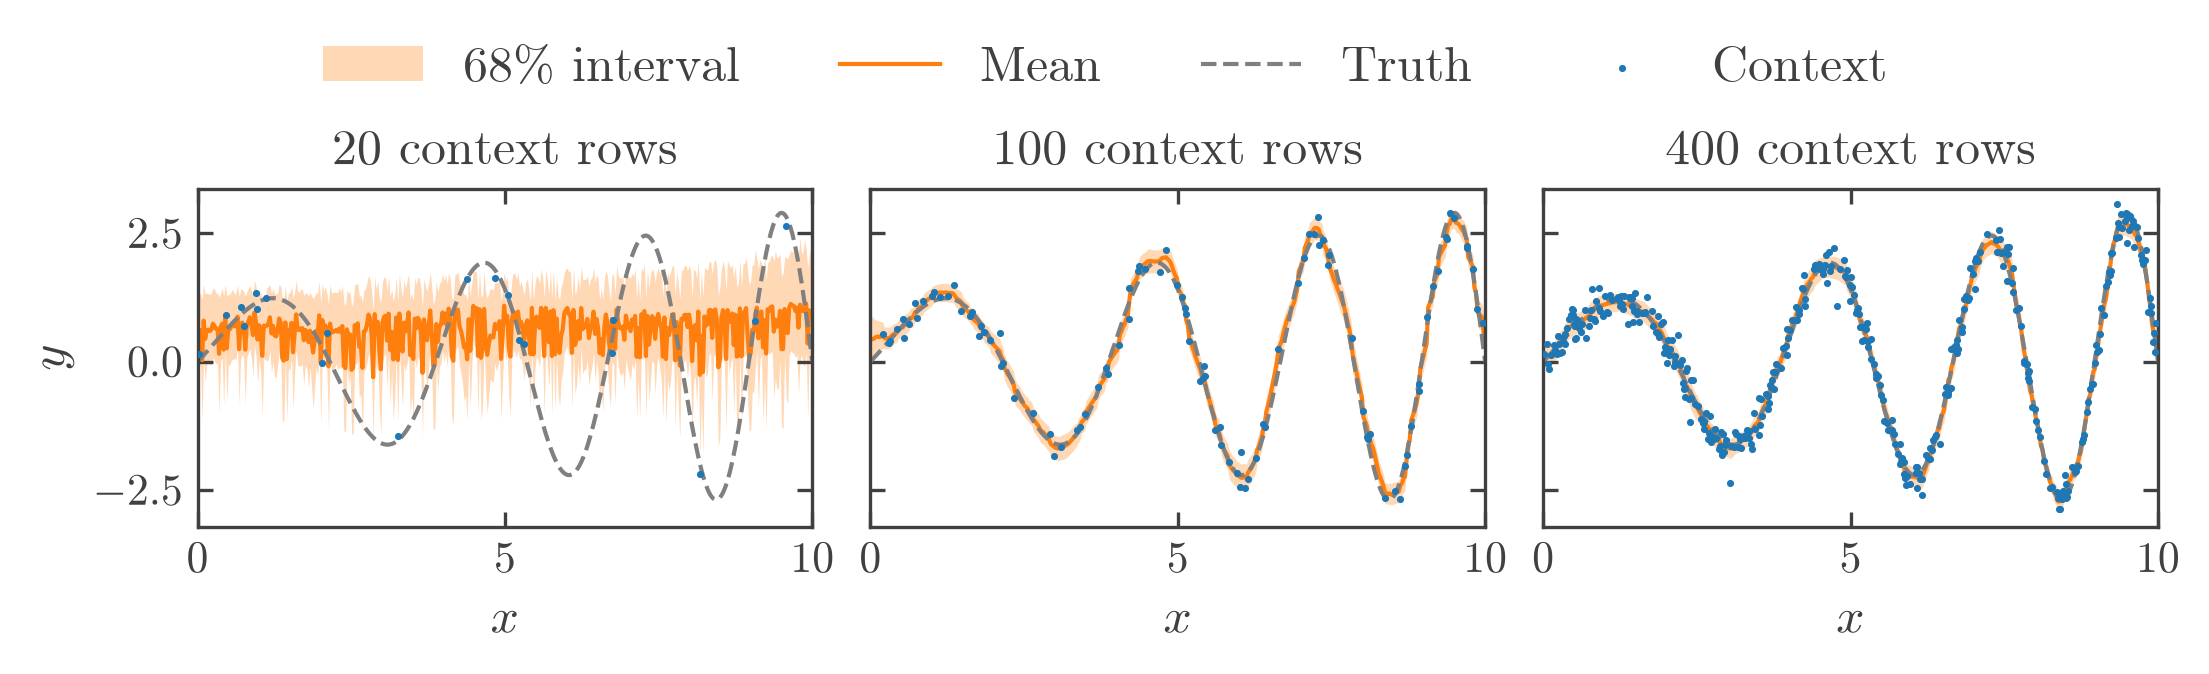
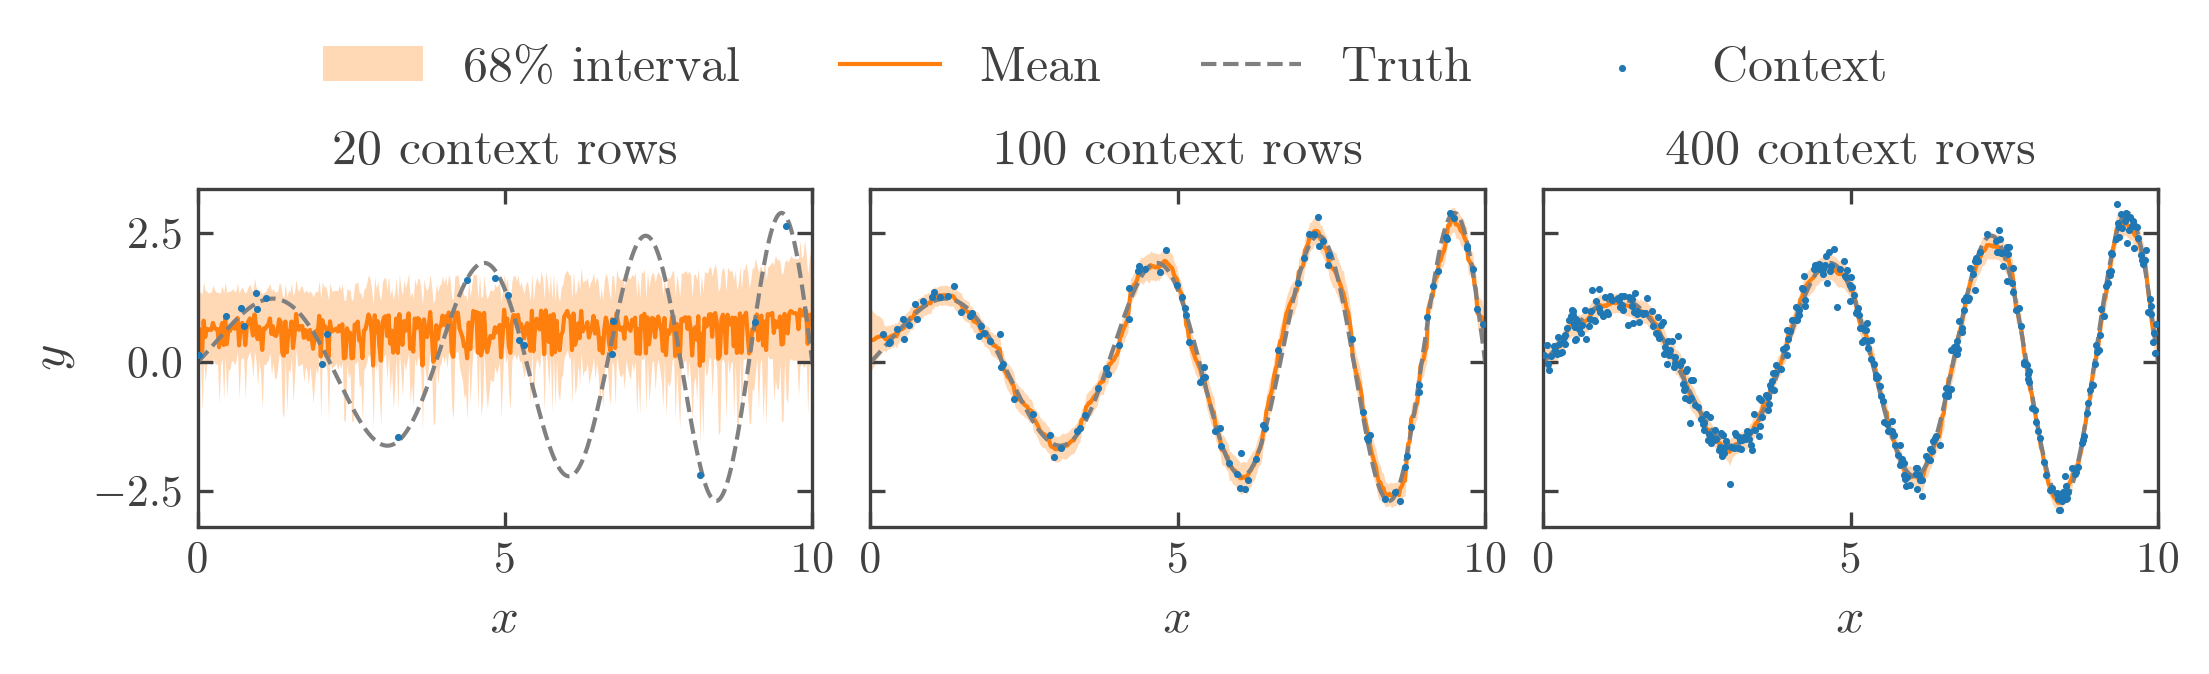
Run the docs demo on TabPFN-3.5-fast, which needs no GPU
On the slowed chirp the fast checkpoint misses the three gaps by 0.11,
0.10 and 0.28 rms (TabPFN-3.5: 0.04, 0.06, 0.15), with the noise-free
curve inside its 68% interval at 93% of the test points, and it fits and
predicts in about 7 s on a CPU against 19 s, so a reader can run the
landing page's code on a laptop.

diff --git a/docs/figures/make_figures.py b/docs/figures/make_figures.py
@@ -11,9 +11,9 @@
 # # The documentation's figures
 #
 # Every figure in the documentation that shows a model's output is made here,
-# so each one can be remade from the code that the page shows. The models run
-# at LAZY's defaults (TabPFN-3.5), which wants a GPU. Running the script
-# rewrites every PNG in `docs/figures/figs/`:
+# so each one can be remade from the code that the page shows. The model is
+# TabPFN-3.5-fast at LAZY's defaults, which runs on a CPU in seconds at these
+# sizes. Running the script rewrites every PNG in `docs/figures/figs/`:
 #
 #     python docs/figures/make_figures.py
 
@@ -77,14 +77,14 @@ plt.rcParams.update(RC_PARAMS)
 # ## Filling in a curve
 #
 # The landing page's demo, as it appears there: a noisy chirp with three
-# chunks cut out, and TabPFN-3.5's mean and 68% interval in the gaps.
+# chunks cut out, and TabPFN-3.5-fast's mean and 68% interval in the gaps.
 
 # %%
 X_train, X_test, y_train, y_test = datasets.make_chirp(random_state=0)
 
 model = lazy.LazyModel(
     "tabpfn",
-    version="v3.5",
+    version="v3.5-fast",
     n_estimators=8,
     transforms="auto",
     feature_shuffle=True,
@@ -326,7 +326,7 @@ fig, axes = plt.subplots(
 )
 for ax, size in zip(axes, sizes, strict=True):
     rows = np.sort(rng.choice(len(x_full), size, replace=False))
-    model = lazy.LazyModel("tabpfn")
+    model = lazy.LazyModel("tabpfn", version="v3.5-fast")
     model.fit(x_full[rows], y_full[rows])
     low, high = model.predict_interval(x_grid, coverage=0.68).T
     ax.fill_between(

diff --git a/docs/index.md b/docs/index.md
@@ -35,11 +35,13 @@ As a quick demonstration, we fill in the missing parts of a noisy curve.
 {func}`~lazy.datasets.make_chirp` generates a sinusoid whose amplitude and
 frequency both grow with $x$, adds Gaussian noise to it and deletes three
 chunks of the data, which become the test set. We then give the remaining
-points to TabPFN-3.5 as its training data and predict the mean and the central
-68% interval of $y$ in each gap. For clarity, we write out every
-hyperparameter at its default value, so `lazy.LazyModel()` gives the same
-model. TabPFN-3.5 is best run on a GPU, though a context this small also runs
-on a CPU (see {doc}`installation`).
+points to TabPFN-3.5-fast as its training data and predict the mean and the
+central 68% interval of $y$ in each gap. TabPFN-3.5-fast is the smaller and
+faster version of TabPFN-3.5, LAZY's default model, and at this size it runs
+on a CPU in seconds (about 7 s on the 20-core Arm CPU of an NVIDIA GB10), so
+the demo needs no GPU. For clarity, we write out every hyperparameter at its
+default value, so `lazy.LazyModel("tabpfn", version="v3.5-fast")` gives the
+same model.
 
 ```python
 import lazy
@@ -49,7 +51,7 @@ X_train, X_test, y_train, y_test = datasets.make_chirp(random_state=0)
 
 model = lazy.LazyModel(
     "tabpfn",
-    version="v3.5",
+    version="v3.5-fast",
     n_estimators=8,
     transforms="auto",
     feature_shuffle=True,
@@ -70,16 +72,17 @@ y_low, y_high = model.predict_interval(X_test, coverage=0.68).T
 ```
 
 ```{figure} figures/figs/chirp_demo.png
-:alt: A noisy chirp with three gaps, filled by TabPFN-3.5's mean and 68% interval.
+:alt: A noisy chirp with three gaps, filled by TabPFN-3.5-fast's mean and 68% interval.
 :width: 100%
 
-The noisy chirp generated by `make_chirp` and TabPFN-3.5's predictions in the
-three gaps. The blue line shows the training data, the gray dashed line the
-true curve in the gaps, the orange points the mean of each predicted
+The noisy chirp generated by `make_chirp` and TabPFN-3.5-fast's predictions in
+the three gaps. The blue line shows the training data, the gray dashed line
+the true curve in the gaps, the orange points the mean of each predicted
 distribution and the orange band its central 68% interval. We observe that the
-mean follows the true curve closely in all three gaps, and that the true curve
-lies within the 68% interval everywhere in them (the interval describes the
-noisy targets, so it is wider than the uncertainty on the curve itself).
+mean follows the true curve in all three gaps, lagging slightly on the
+steepest part of the third, and that the true curve lies within the 68%
+interval at 93% of the test points (the interval describes the noisy targets,
+so it is wider than the uncertainty on the curve itself).
 ```
 
 The model was never trained on this curve. `fit` stores the training rows

diff --git a/docs/tfm.md b/docs/tfm.md
@@ -90,16 +90,16 @@ This view also tells us what to expect from a TFM in practice. Since the
 output approximates a posterior predictive distribution, it should be broad
 when the context holds little information about a query and narrow when it
 holds a lot. Figure 3 shows this for the noisy curve from the landing page:
-with 20 context rows TabPFN-3.5 cannot follow the oscillations and its 68%
-interval is broad, while with 100 and 400 context rows it follows the true
+with 20 context rows TabPFN-3.5-fast cannot follow the oscillations and its
+68% interval is broad, while with 100 and 400 context rows it follows the true
 curve closely and its interval narrows to roughly the spread of the noise. The
 model and its weights are the same in all three panels.
 
 ```{figure} figures/figs/context_size.png
-:alt: Three panels showing TabPFN-3.5's mean and 68% interval for a noisy curve given 20, 100 and 400 context points.
+:alt: Three panels showing TabPFN-3.5-fast's mean and 68% interval for a noisy curve given 20, 100 and 400 context points.
 :width: 100%
 
-**Figure 3.** TabPFN-3.5's predictions for the noisy chirp of
+**Figure 3.** TabPFN-3.5-fast's predictions for the noisy chirp of
 {func}`~lazy.datasets.make_chirp` given 20, 100 and 400 context rows drawn at
 random. The blue points show the context, the gray dashed line the true curve,
 the orange line the mean of each predicted distribution and the orange band
